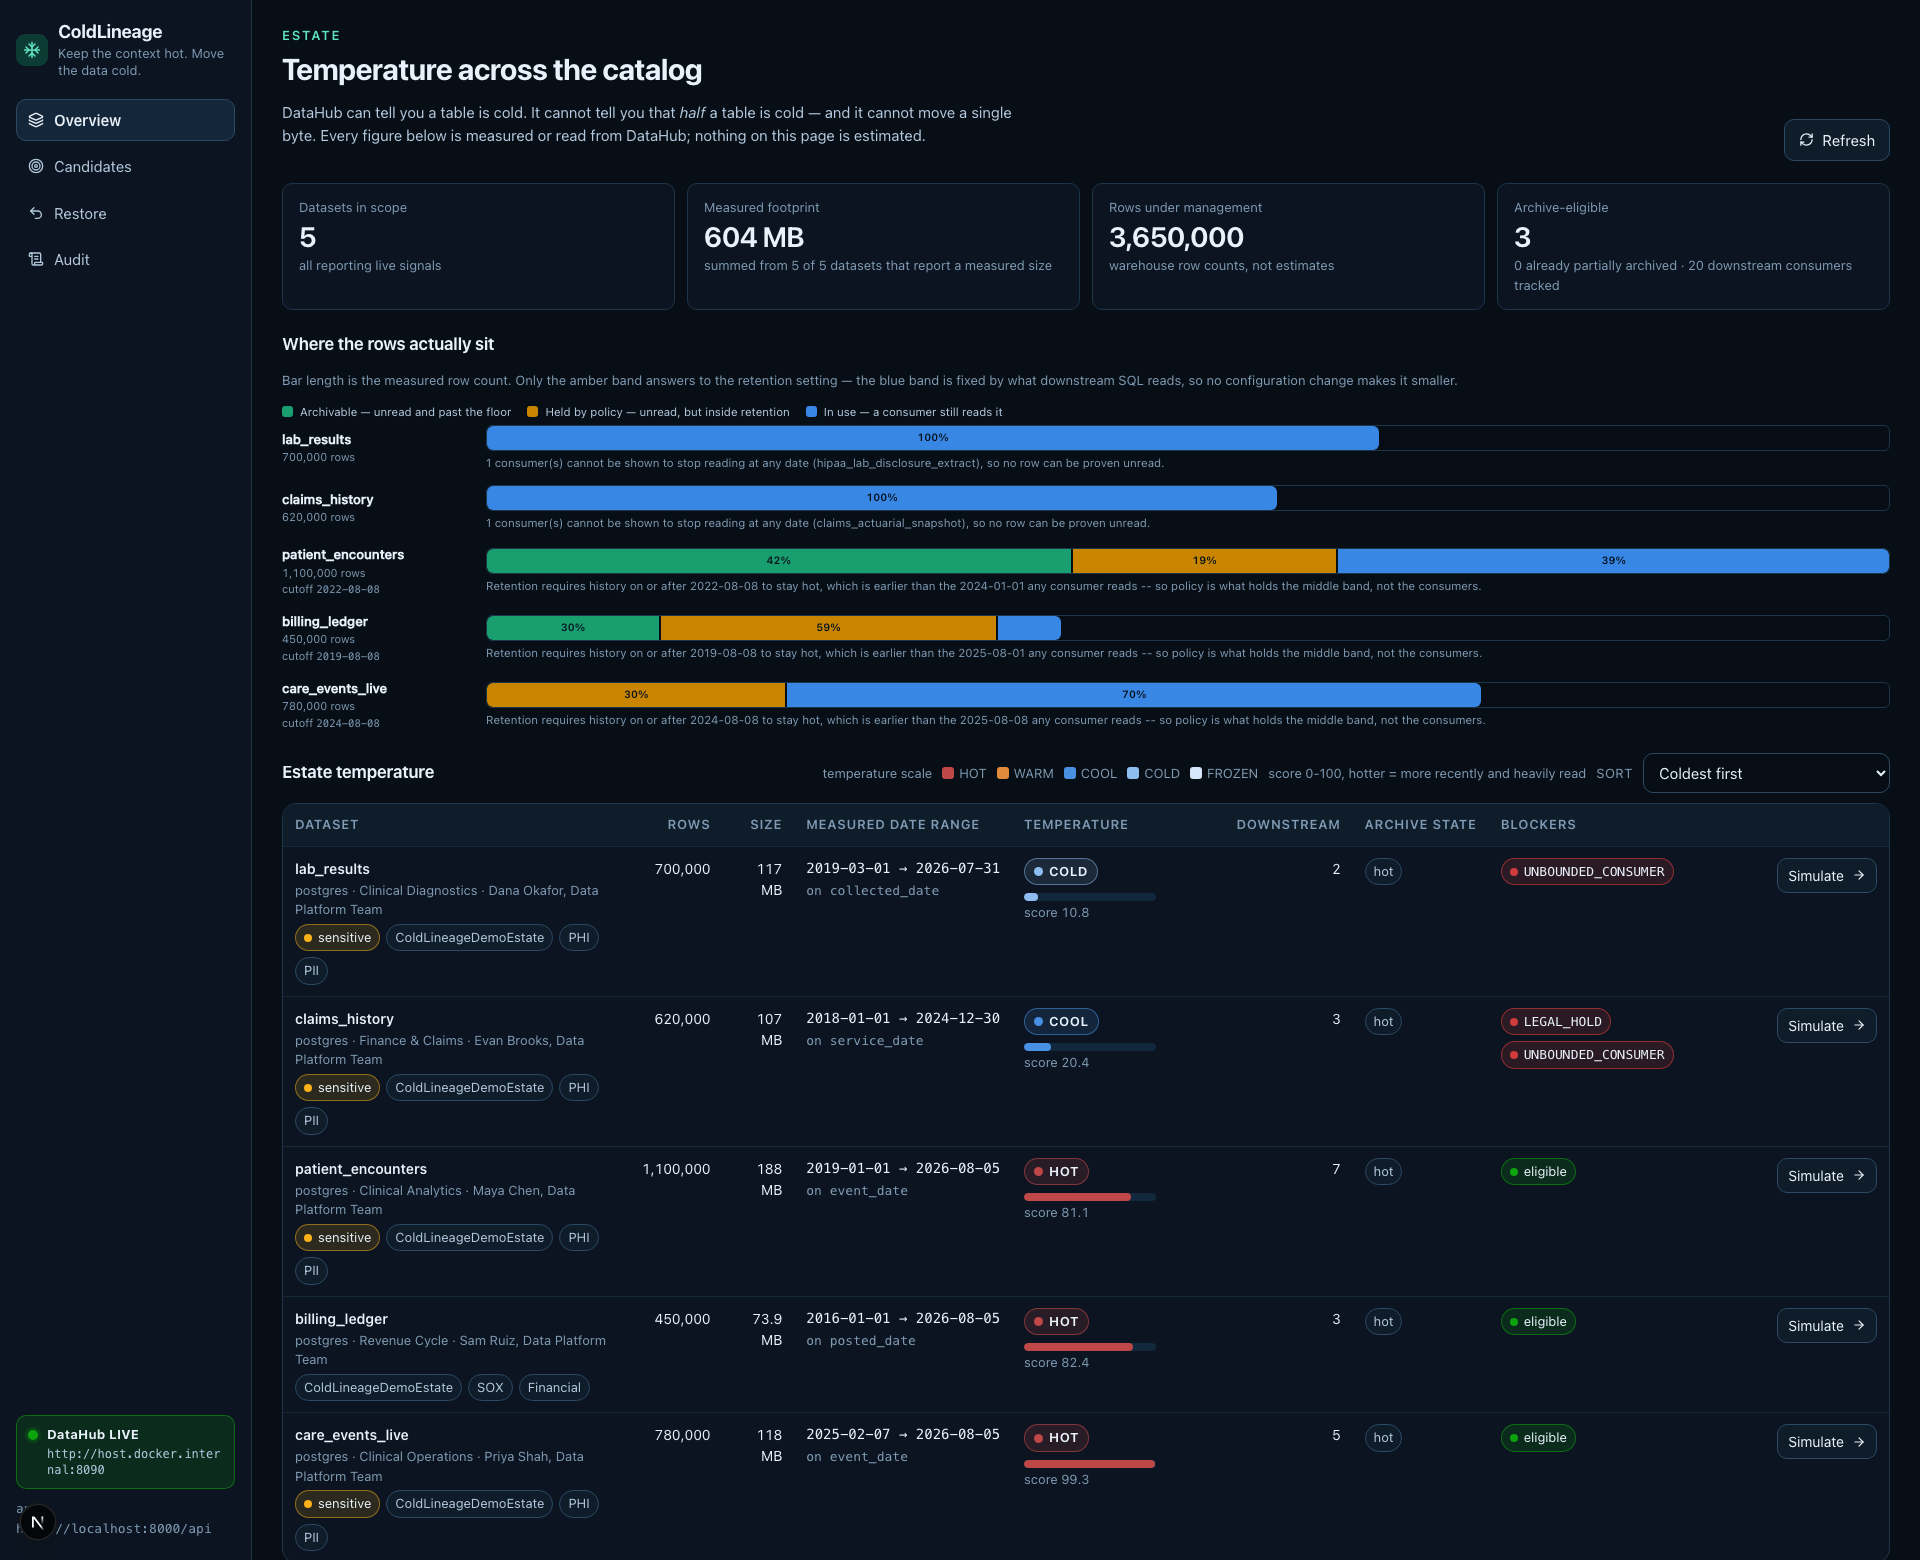
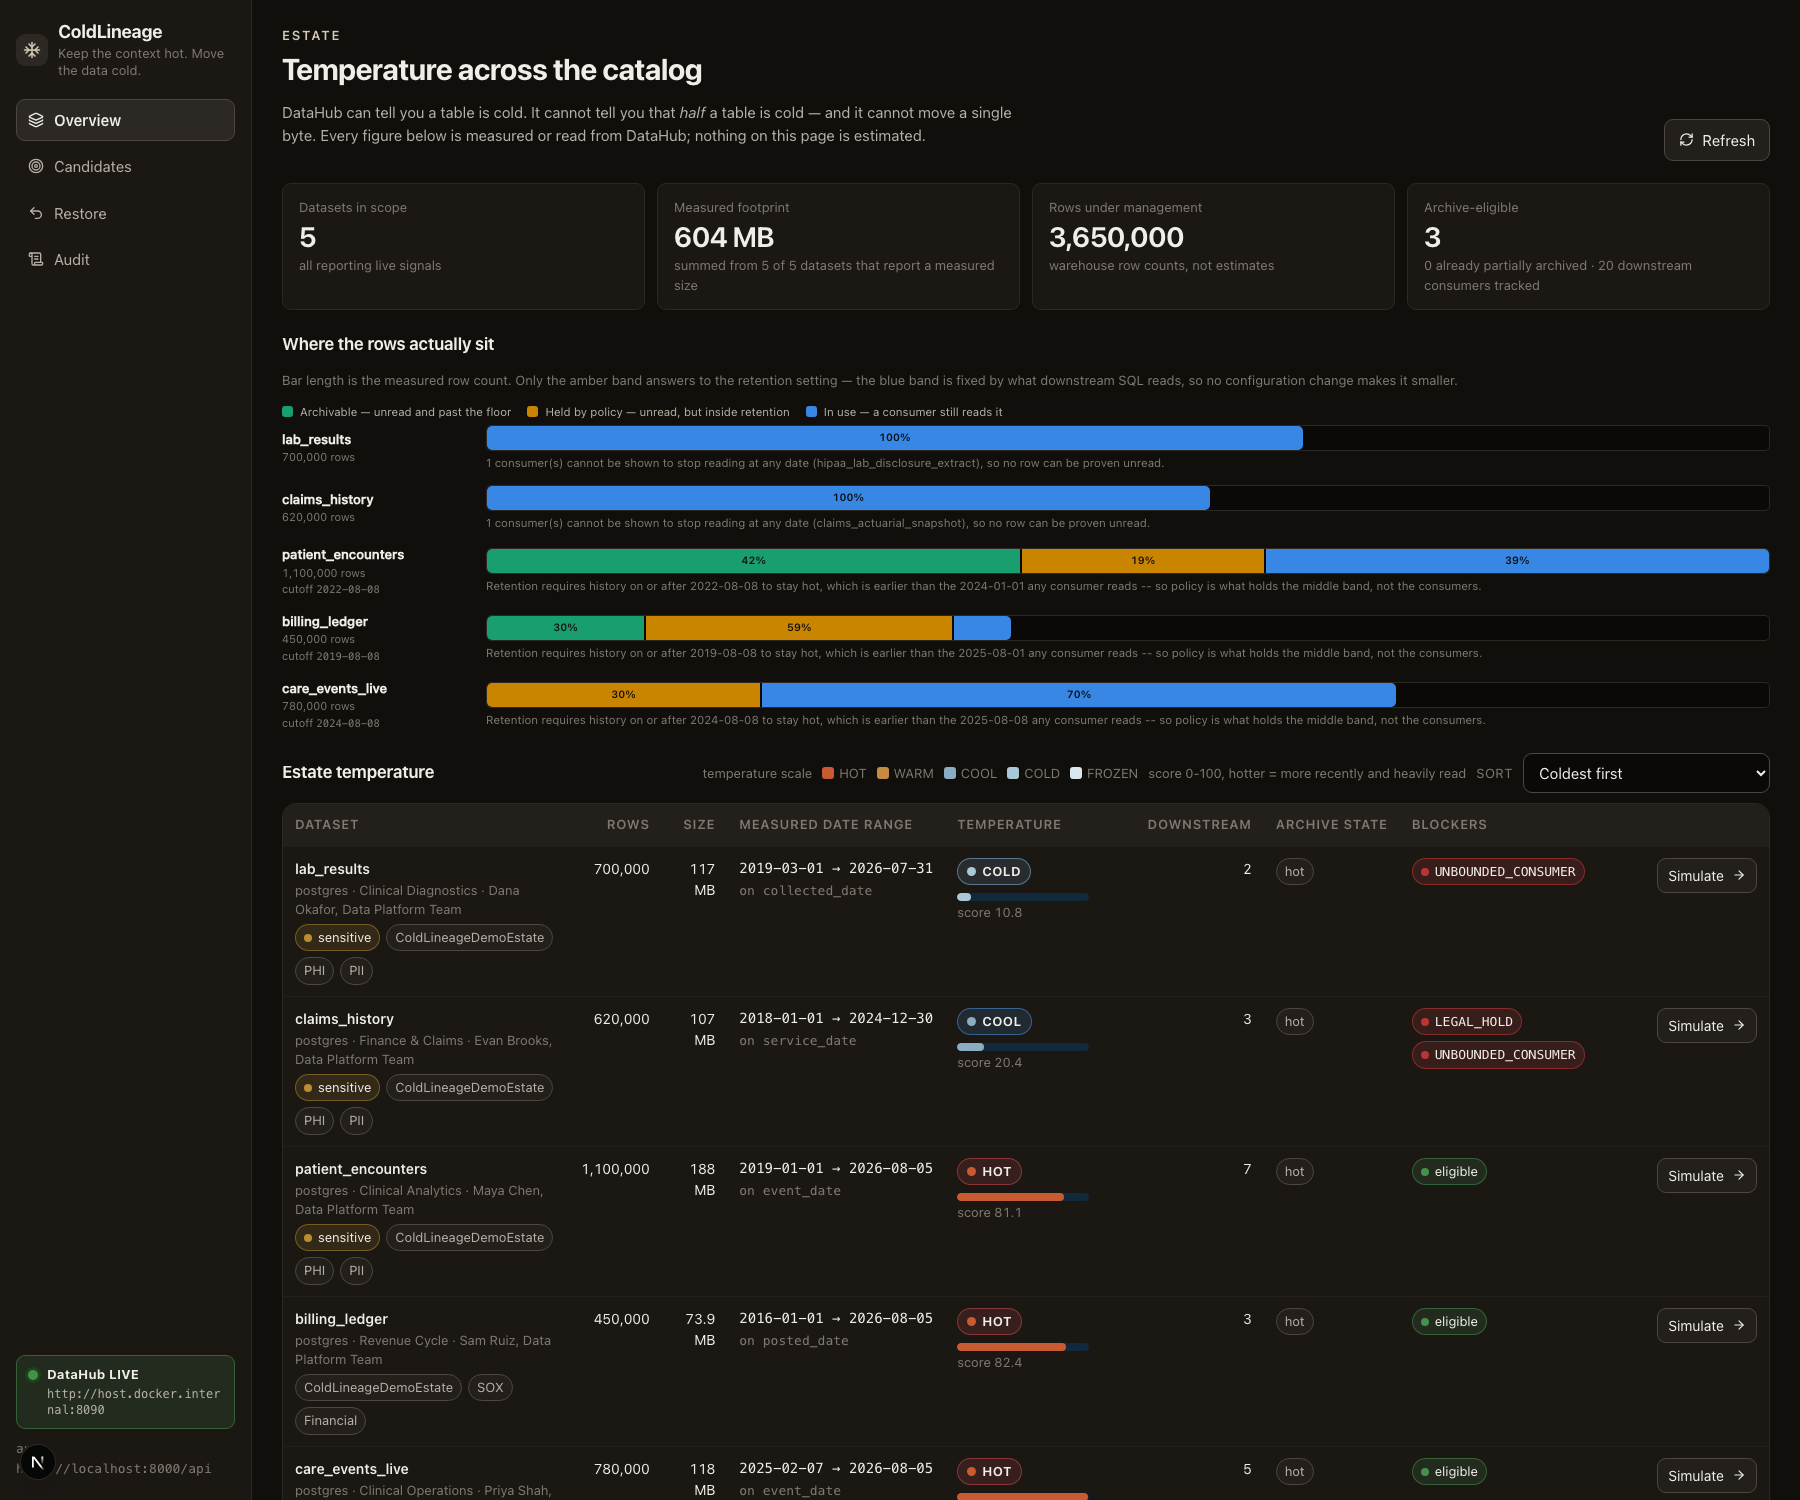
Reskin: ember on ink, and tokens that say where they go
The old palette was navy at hue ~250 with a maroon HOT -- which is the default
dark-dashboard blue everyone reaches for, within a few degrees of most design
systems' brand colour. Read AiDash's internal Origami design system for practice
(not for code, and not for its cyan, which sits at hue ~225 and would have swapped
one generic blue for another). Four habits worth stealing, none of them colours:

  OKLCH for every token, hex only in the comment. Perceptually uniform lightness
  means a ramp stepped by L actually looks evenly stepped.

  Two token layers, and call sites only ever touch the second: raw ramps
  (--warm-*, --ink-*) carry no meaning; roles (--fg-subtle, --bd-hover) do. A role
  says where a value goes, which is how one stops using --border-strong for three
  unrelated purposes.

  Interaction states as tokens, not one-off filters. The band chart's hover was
  literally filter: brightness(1.18) inline; it is now --state-lift.

  Dark mode re-steps the same hues rather than inverting them.

One rule now governs the palette: SATURATED COLOUR MEANS DATA. Ground, ink,
borders, buttons and focus are warm neutral at hue 70 with chroma under 0.012, so
the only vivid things on screen are temperature and the row bands, and nothing in
the furniture can be mistaken for a measurement. The chrome accent is deliberately
achromatic bone -- the validator calls it "reads gray", which is the point: a
coloured accent would compete with the status green and the thermal ember.
[…]

diff --git a/frontend/app/globals.css b/frontend/app/globals.css
@@ -9,67 +9,177 @@
      - status (safe / tight / blocked / unknown) uses the fixed status ramp
      - temperature uses a semantic-heat ramp (warm -> cool), always shown with
        its class word and a scale legend
-     - brand teal is chrome only. It never encodes data.
+     - the chrome accent is achromatic bone. It never encodes data, and cannot
+       be mistaken for it.
    ========================================================================== */
 
 /* --------------------------------------------------------------------------
    1. Tokens
    -------------------------------------------------------------------------- */
 
+/* Ember on ink.
+   ------------------------------------------------------------------
+   One rule governs this palette: **saturated colour means data.** The chrome —
+   ground, ink, borders, buttons, focus — is warm neutral with almost no chroma,
+   so the only vivid things on screen are temperature and the row bands. Nothing
+   in the furniture can be mistaken for a measurement.
+
+   The ground is warm charcoal at hue ~70, not the blue-black every dark
+   dashboard defaults to (our old #070e16 sat at hue ~250, within a few degrees
+   of most design systems' brand blue). Warm neutral also flatters the ember end
+   of the thermal ramp instead of fighting it.
+
+   Written in OKLCH with the hex in a comment, because OKLCH lightness is
+   perceptually uniform: a ramp stepped by L actually looks evenly stepped, and
+   a hue can move while lightness holds. Hex alone cannot promise that.
+
+   Tokens come in two layers, and call sites should only ever use the second:
+     ramps      --ink-*, --warm-*   raw steps, no meaning
+     roles      --fg, --fg-subtle, --bd-hover, --accent-hover, ...
+   A role says where a value goes. A number does not, which is how
+   `--border-strong` ends up used for three unrelated purposes.
+
+   Every data colour below was computed, not chosen — checked with the dataviz
+   validator against this app's own surfaces for lightness banding, a chroma
+   floor, colour-vision separation and WCAG contrast. Figures are in the
+   comments beside each set. */
+
 :root {
   color-scheme: dark;
 
-  /* Surfaces */
-  --page: #070e16;
-  --surface-1: #0b1420;
-  --surface-2: #0f1c2a;
-  --surface-3: #142639;
-  --surface-inset: #060d15;
+  /* ---- layer 1: raw ramps ------------------------------------------ */
 
-  /* Lines */
-  --border: #1d3549;
-  --border-strong: #2c4a64;
-  --grid: #16293b;
+  /* Warm neutral, hue 70. Chroma stays under 0.012 so this reads as
+     temperature-of-light, not as a brown tint. */
+  --warm-1000: oklch(14.0% 0.006 70); /* #0d0b0a */
+  --warm-950: oklch(17.0% 0.007 70); /* #12100e */
+  --warm-900: oklch(21.0% 0.008 70); /* #1a1714 */
+  --warm-850: oklch(24.5% 0.009 70); /* #221e19 */
+  --warm-800: oklch(28.0% 0.010 70); /* #2a251f */
+  --warm-700: oklch(33.0% 0.011 70); /* #352e26 */
+  --warm-600: oklch(40.0% 0.012 70); /* #453d33 */
+  --warm-500: oklch(50.0% 0.012 70); /* #5f584e */
+
+  --ink-100: oklch(95.0% 0.008 80); /* #f4efe6 */
+  --ink-300: oklch(76.0% 0.014 80); /* #b8ae9e */
+  --ink-500: oklch(58.0% 0.014 80); /* #857c6e */
+
+  /* ---- layer 2: roles. Call sites use these. ----------------------- */
+
+  /* Surfaces, page outward */
+  --bg-page: var(--warm-950);
+  --bg-inset: var(--warm-1000);
+  --bg-surface: var(--warm-900);
+  --bg-raised: var(--warm-850);
+  --bg-overlay: var(--warm-800);
 
   /* Ink */
-  --ink: #e9f2fb;
-  --ink-2: #b3c8dc;
-  --ink-3: #7f9ab2;
+  --fg: var(--ink-100);
+  --fg-subtle: var(--ink-300);
+  --fg-muted: var(--ink-500);
 
-  /* Brand chrome (never a data colour) */
-  --accent: #5fe3c0;
-  --accent-deep: #0b3b33;
-  --focus: #6fb8ff;
+  /* Lines */
+  --bd-subtle: var(--warm-850);
+  --bd: var(--warm-800);
+  --bd-hover: var(--warm-700);
+  --bd-strong: var(--warm-600);
 
-  /* Status ramp - fixed, never themed. Always shipped with icon + label. */
-  --good: #0ca30c;
-  --warning: #fab219;
-  --serious: #ec835a;
-  --critical: #d03b3b;
+  /* Chrome accent — deliberately ACHROMATIC (chroma 0.03, "reads gray" by the
+     validator, which is exactly the point). A coloured accent competes with the
+     status green and the thermal ember; bone cannot be confused with either.
+     Checked as a lone UI colour by WCAG contrast rather than by the categorical
+     gates: 9.6:1 on --bg-page. */
+  --accent: oklch(84.0% 0.030 85); /* #d9c9a8 */
+  --accent-hover: oklch(89.0% 0.032 85); /* #e8dcc2 */
+  --accent-ink: oklch(16.0% 0.008 70); /* #17140f — text ON accent */
+  --focus: oklch(84.0% 0.030 85); /* same bone; focus is chrome, not data */
 
-  --good-wash: rgba(12, 163, 12, 0.16);
-  --warning-wash: rgba(250, 178, 25, 0.14);
-  --serious-wash: rgba(236, 131, 90, 0.14);
-  --critical-wash: rgba(208, 59, 59, 0.16);
+  /* Interaction states, as tokens rather than one-off filters. This is the
+     habit that keeps hovers consistent across a codebase. */
+  --state-hover: oklch(100% 0 0 / 0.05);
+  --state-active: oklch(100% 0 0 / 0.09);
+  --state-selected: oklch(84.0% 0.030 85 / 0.12);
+  --state-lift: brightness(1.14) saturate(1.04);
 
-  --good-edge: rgba(12, 163, 12, 0.55);
-  --warning-edge: rgba(250, 178, 25, 0.5);
-  --serious-edge: rgba(236, 131, 90, 0.5);
-  --critical-edge: rgba(208, 59, 59, 0.62);
+  /* ---- data colour: temperature ----------------------------------- */
+  /* A DIVERGING ramp (warm hues -> cool), not sequential, so the validator's
+     single-hue gate does not apply and is expected to fail. What does apply is
+     lightness order, and this passes: L 0.60 -> 0.68 -> 0.73 -> 0.81 -> 0.92,
+     monotone with every adjacent gap >= 0.06, so it reads as a scale even in
+     greyscale. Light end 4.09:1 on --bg-surface. Always labelled. */
+  --temp-hot: oklch(60.0% 0.150 40); /* #cf4f2c */
+  --temp-warm: oklch(68.0% 0.115 70); /* #c78320 */
+  --temp-cool: oklch(73.0% 0.048 235); /* #86adc4 */
+  --temp-cold: oklch(81.5% 0.038 230); /* #b0cfdb */
+  --temp-frozen: oklch(92.0% 0.015 225); /* #e0e9ed */
 
-  /* Semantic-heat ramp for temperature classes */
-  --temp-hot: #bf4747;
-  --temp-warm: #e08a3c;
-  --temp-cool: #4a90e2;
-  --temp-cold: #8fbdf0;
-  --temp-frozen: #d6e7fc;
+  /* ---- data colour: status ---------------------------------------- */
+  /* Fixed, never themed, and never colour alone — every one ships with a text
+     label in this UI, which is the secondary encoding the green/amber pair
+     needs (protan separation between them is genuinely tight). */
+  --good: oklch(59.0% 0.130 145); /* #4e9448 */
+  --warning: oklch(67.0% 0.120 82); /* #bf8b12 */
+  --serious: oklch(58.0% 0.120 45); /* #a8552c */
+  --critical: oklch(53.0% 0.170 25); /* #bf3438 */
 
-  --radius-sm: 6px;
-  --radius: 10px;
+  --good-wash: oklch(59.0% 0.130 145 / 0.16);
+  --warning-wash: oklch(67.0% 0.120 82 / 0.15);
+  --serious-wash: oklch(58.0% 0.120 45 / 0.15);
+  --critical-wash: oklch(53.0% 0.170 25 / 0.18);
+
+  --good-edge: oklch(59.0% 0.130 145 / 0.55);
+  --warning-edge: oklch(67.0% 0.120 82 / 0.5);
+  --serious-edge: oklch(58.0% 0.120 45 / 0.5);
+  --critical-edge: oklch(53.0% 0.170 25 / 0.6);
+
+  /* ---- shape and type --------------------------------------------- */
+  --radius-sm: 5px;
+  --radius: 9px;
   --radius-lg: 14px;
+
+  /* A 1.20 scale off a 13px base. Tighter than the browser default ramp, which
+     is what makes a dense table read as deliberate rather than cramped. */
+  --text-xs: 10.5px;
+  --text-sm: 11.5px;
+  --text-base: 13px;
+  --text-md: 15px;
+  --text-lg: 18.5px;
+  --text-xl: 26px;
+  --text-2xl: 34px;
+
+  --lh-tight: 1.2;
+  --lh-base: 1.5;
+  --lh-loose: 1.65;
+
+  /* 4px base, so vertical rhythm lands on one grid everywhere. */
+  --sp-1: 4px;
+  --sp-2: 8px;
+  --sp-3: 12px;
+  --sp-4: 16px;
+  --sp-5: 22px;
+  --sp-6: 30px;
+  --sp-7: 42px;
 
   --mono: ui-monospace, SFMono-Regular, "SF Mono", Menlo, Consolas, monospace;
   --sans: system-ui, -apple-system, "Segoe UI", Roboto, sans-serif;
+
+  /* ---- compatibility aliases -------------------------------------- */
+  /* The rules below this block predate the role layer. Aliasing rather than
+     find-and-replacing keeps the reskin to token values only, so no component
+     markup changes and nothing can break two days before a deadline. New CSS
+     should use the roles above; these will go when the rules are rewritten. */
+  --page: var(--bg-page);
+  --surface-1: var(--bg-surface);
+  --surface-2: var(--bg-raised);
+  --surface-3: var(--bg-overlay);
+  --surface-inset: var(--bg-inset);
+  --border: var(--bd);
+  --border-strong: var(--bd-strong);
+  --grid: var(--bd-subtle);
+  --ink: var(--fg);
+  --ink-2: var(--fg-subtle);
+  --ink-3: var(--fg-muted);
+  --accent-deep: var(--warm-800);
 }
 
 /* --------------------------------------------------------------------------
@@ -1388,16 +1498,17 @@ details.expander .expander-body {
    SQL reads, and watching it NOT move when the retention knob turns is the
    point of the chart.
 
-   These three hues are not chosen by eye. They were checked against this app's
-   own card surface (#0f1c2a) for the dark lightness band, a chroma floor,
-   colour-vision separation and WCAG contrast:
+   These three hues are not chosen by eye. They were re-checked against the
+   warm-charcoal surface this app moved to (#1a1714) for the dark lightness band,
+   a chroma floor, colour-vision separation and WCAG contrast:
 
      worst adjacent CVD deltaE 8.4 (protan) / 24.3 (tritan)   target >= 8
      worst adjacent normal-vision deltaE 19.8                 floor >= 15
      all three >= 3:1 against the surface
 
-   The app's own --accent and --warning are too light for fills here (L 0.83 and
-   0.81 against a 0.48-0.67 band), so these are darker steps of the same hues.
+   They are the one exception to "chrome is neutral": the bands are data, so they
+   are allowed chroma. Deliberately NOT reusing --temp-*, because a row's band is
+   not its temperature and sharing colour would imply it was.
    -------------------------------------------------------------------------- */
 
 :root {
@@ -1494,8 +1605,13 @@ details.expander .expander-body {
 
 .bandseg:hover,
 .bandseg:focus-visible {
-  filter: brightness(1.18);
+  filter: var(--state-lift);
   outline: none;
+}
+
+.bandseg:focus-visible {
+  /* Inset so the ring never escapes the track's rounded clip. */
+  box-shadow: inset 0 0 0 2px var(--focus);
 }
 
 .bandseg-value {
@@ -1506,12 +1622,13 @@ details.expander .expander-body {
   font-size: 10.5px;
   font-weight: 600;
   font-variant-numeric: tabular-nums;
-  /* Ink, never the series colour -- the fill already carries identity. */
-  color: #06121d;
+  /* Ink, never the series colour -- the fill already carries identity. Dark ink
+     because all three fills sit in the 0.48-0.67 lightness band. */
+  color: oklch(18% 0.01 70);
   pointer-events: none;
 }
 
-.bandseg.inuse .bandseg-value { color: #051019; }
+.bandseg.inuse .bandseg-value { color: oklch(16% 0.01 250); }
 
 .bandnote {
   font-size: 11.5px;
